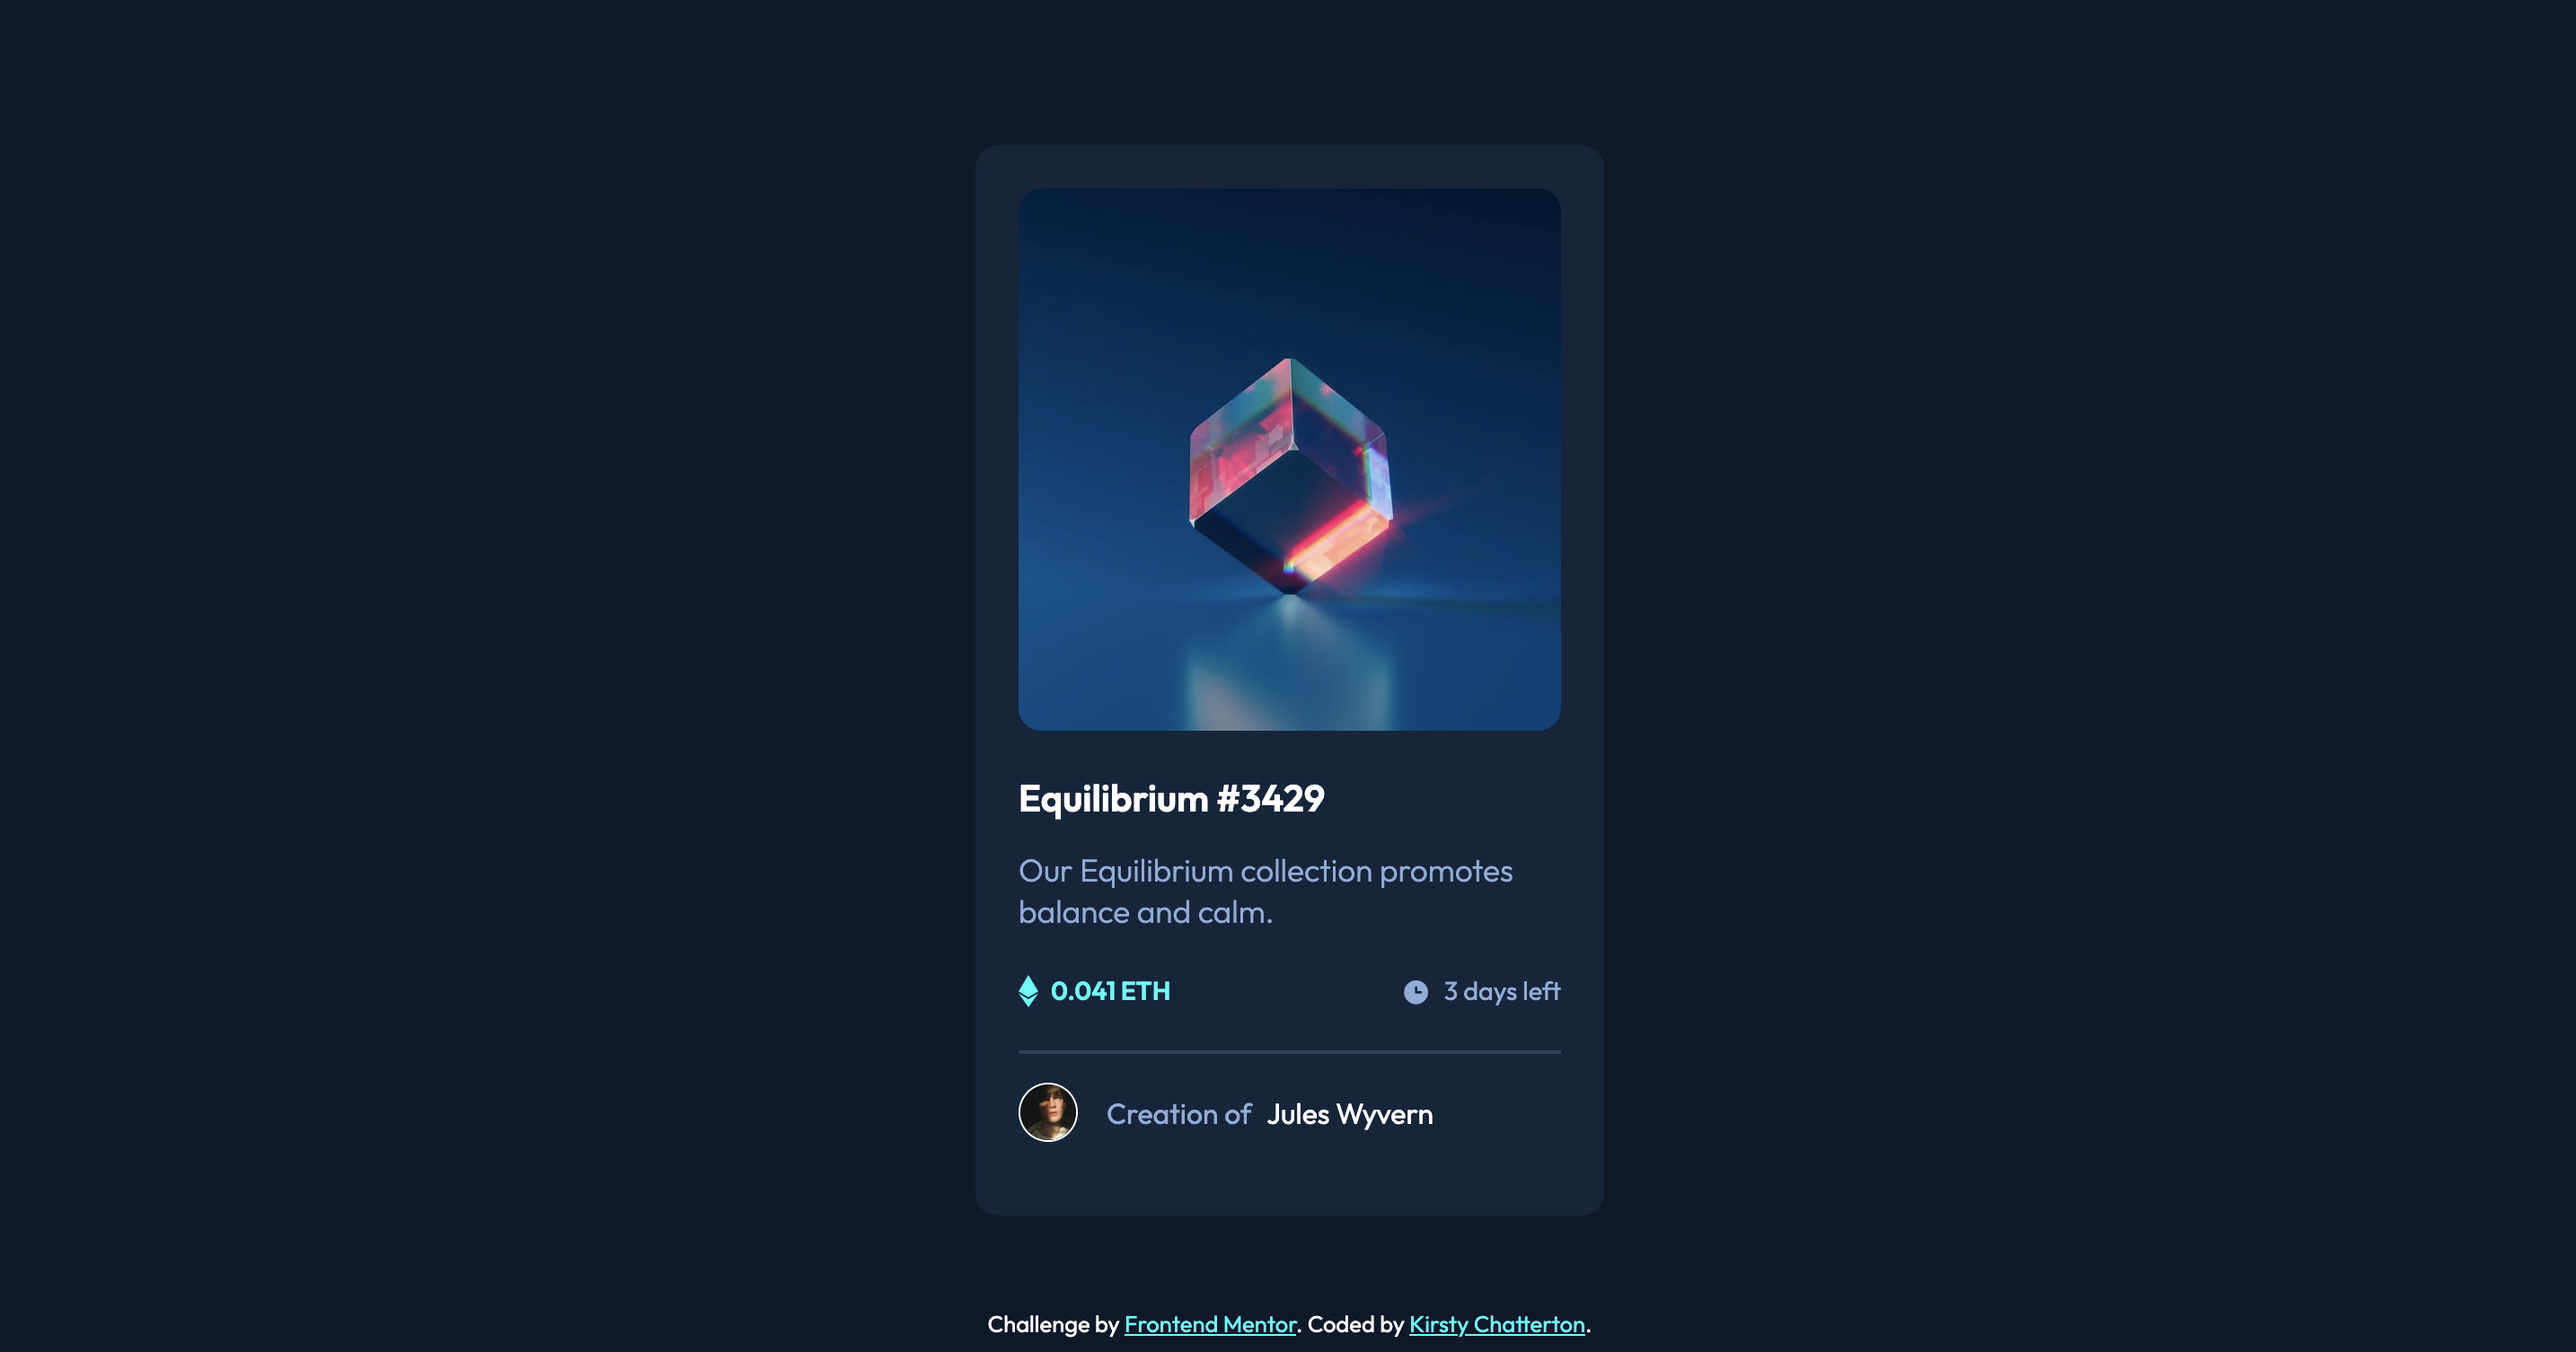
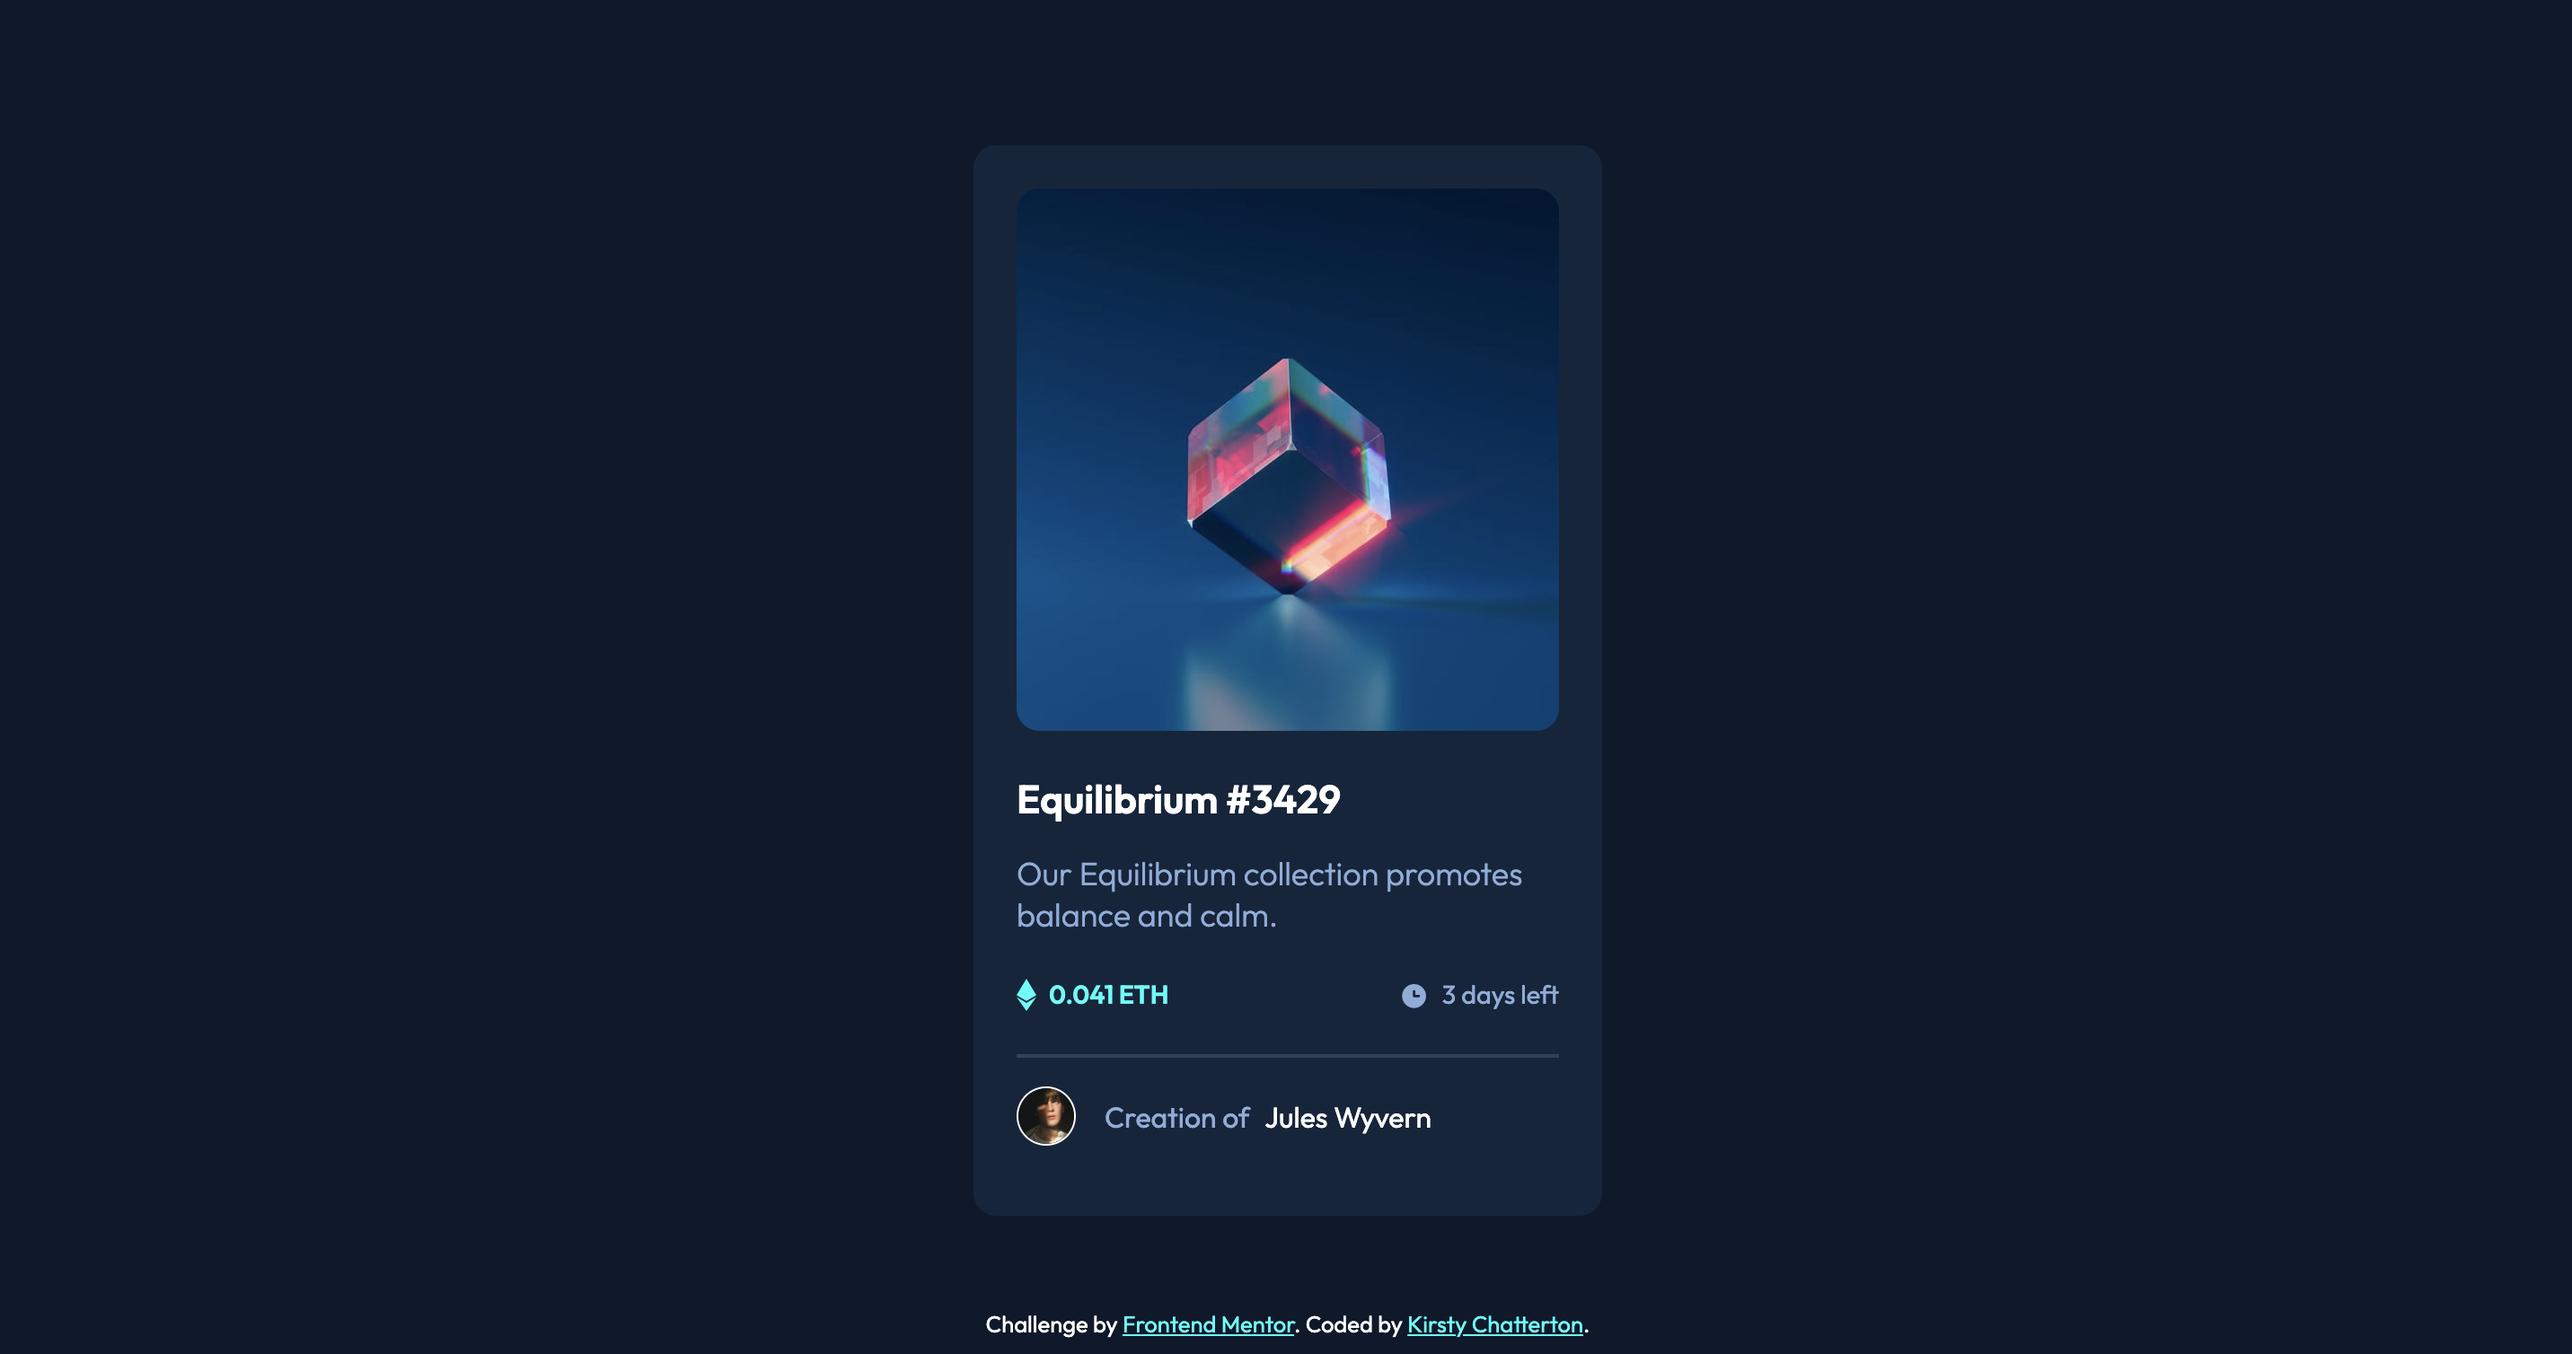
fix: update heading size and add updated desktop screenshot

diff --git a/css/style.css b/css/style.css
@@ -70,13 +70,13 @@ body {
 
 .card__heading {
   color: var(--white);
-  font-size: 1.3rem;
+  font-size: 1.375rem;
   margin: 1.5rem 0 0.75rem;
 }
 
 .card__description {
   color: var(--blue);
-  font-size: 1.1rem;
+  font-size: 1.125rem;
   font-weight: 300;
 }
 
